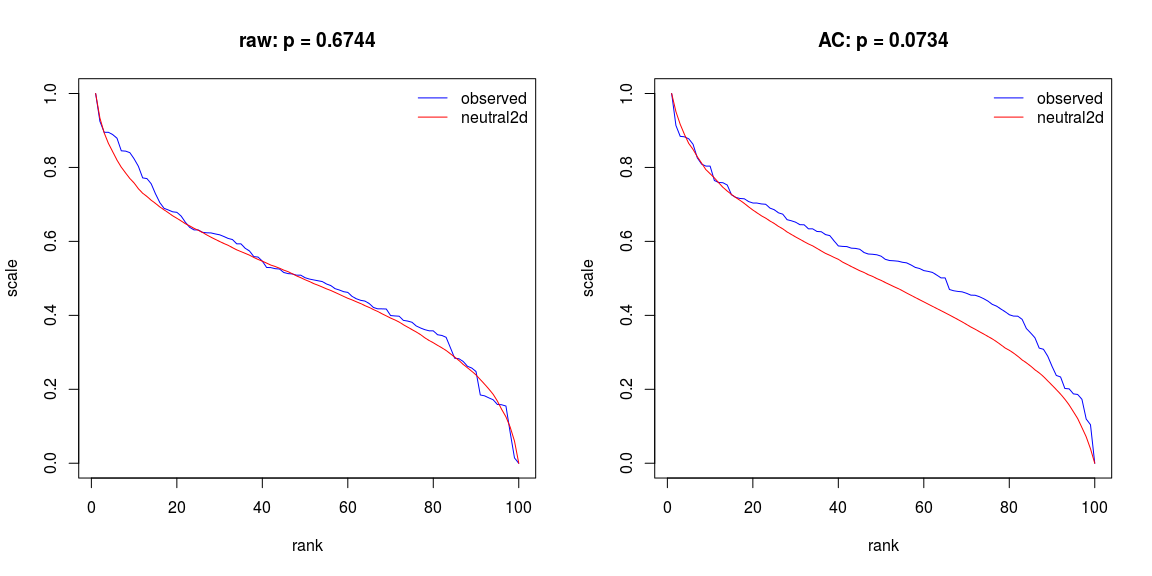
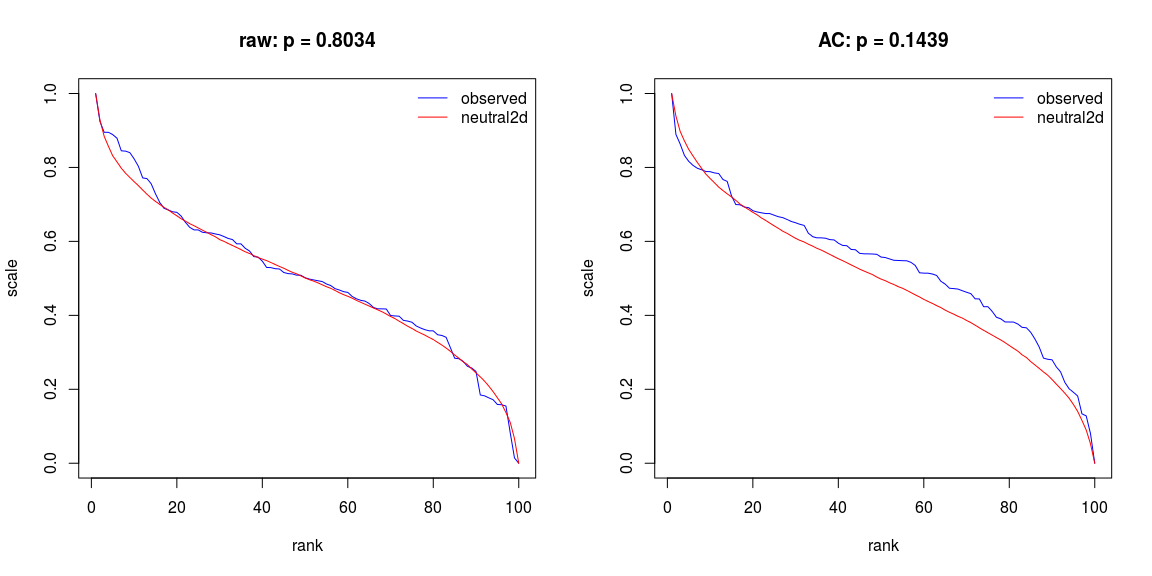
update readme

diff --git a/README.md b/README.md
@@ -21,13 +21,13 @@ ymat <- ives2d (size=10, seed=seed)
 test <- test2d (ymat, plot=TRUE)
 ```
 
-![](fig/demo.png)
+![](fig/demo-moran.png)
 
 The default spatial autocorrelation statistic is Moran's I, with results for other statistics in this case notably different. Geary's C:
 
 ``` r
 plot.new ()
-test <- test2d (ymat, plot=TRUE, actype='geary')
+test <- test2d (ymat, plot=TRUE, ac_type='geary')
 ```
 
 ![](fig/demo-geary.png)
@@ -36,7 +36,7 @@ And Getis-Ord:
 
 ``` r
 plot.new ()
-test <- test2d (ymat, plot=TRUE, actype='getis')
+test <- test2d (ymat, plot=TRUE, ac_type='getis')
 ```
 
 ![](fig/demo-getis.png)
@@ -44,29 +44,25 @@ test <- test2d (ymat, plot=TRUE, actype='getis')
 Then the text output of `run_tests` for a random seed giving more typically low p-values
 
 ``` r
-run_tests (size=10, ntests=1000)
+run_tests (size=10, ntests=100)
 ```
 
-    ##      |               differences     p-values        |                       |
-    ##  dim |  alpha        raw     AC      raw     AC      |   alpha       n       |
-    ## -----|-----------------------------------------------|-----------------------|
-    ##   1  |   (0.1, 0.1)  0.00    9.84    0.0000  0.0000  |   (0.12, 0.13)    8   |
-    ##   1  |   (0.1, 0)    0.00    9.72    0.0000  0.0000  |   (0.12, 0.00)    10  |
-    ##   2  |   (0.1, 0.1)  0.00    10.69   0.0000  0.0000  |   (0.08, 0.11)    13  |
-    ##   2  |   (0.1, 0)    0.00    10.39   0.0000  0.0000  |   (0.13, 0.03)    5   |
-    ## ------------------------------------------------------------------------------
+    ##              differences     p-values        |                       |
+    ##   alpha      raw     AC      raw     AC      |   alpha           n   |
+    ## -------------------------------------|-------------------------------|
+    ##  (0.1, 0.1)  0.00    0.29    0.0005  0.7492  |   (-0.01, 0.13)   10  |
+    ##  (0.1, 0)    0.00    0.20    0.0001  0.6755  |   (0.06, 0.14)    10  |
+    ## ----------------------------------------------------------------------
 
 `run_tests` can also be used to test a neutral field against a statistial ensemble of neutral fields:
 
 ``` r
-run_tests (size=10, ntests=1000, neutral=TRUE)
+run_tests (size=10, ntests=100, neutral=TRUE)
 ```
 
-    ##      |               differences     p-values        |                       |
-    ##  dim |  alpha        raw     AC      raw     AC      |   alpha           n   |
-    ## -----|-----------------------------------------------|-----------------------|
-    ##   1  |   (0.1, 0.1)  0.00    1.46    0.0186  0.0004  |   (0.11, 0.11)    8   |
-    ##   1  |   (0.1, 0)    0.00    1.20    0.0283  0.0014  |   (0.10, 0.00)    8   |
-    ##   2  |   (0.1, 0.1)  0.00    1.03    0.0190  0.0034  |   (0.11, 0.11)    5   |
-    ##   2  |   (0.1, 0)    0.00    0.89    0.0268  0.0095  |   (0.11, -0.01)   5   |
-    ## ------------------------------------------------------------------------------
+    ##              differences     p-values        |                       |
+    ##   alpha      raw     AC      raw     AC      |   alpha           n   |
+    ## ---------------------------------------------|-----------------------|
+    ##  (0.1, 0.1)  0.00    0.19    0.0329  0.2031  |   (0.55, 0.08)    10  |
+    ##  (0.1, 0)    0.00    0.09    0.0263  0.9318  |   (0.50, 0.09)    10  |
+    ## ----------------------------------------------------------------------
